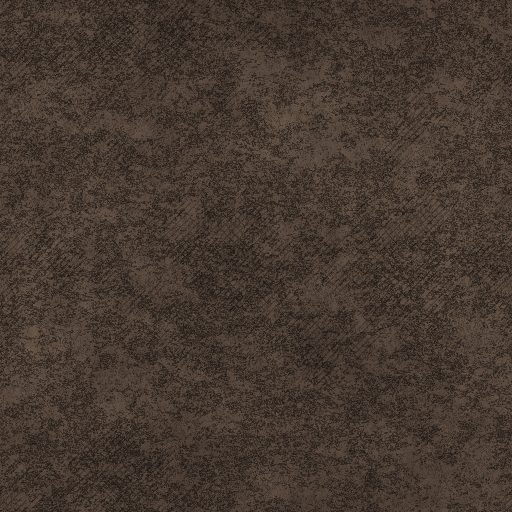
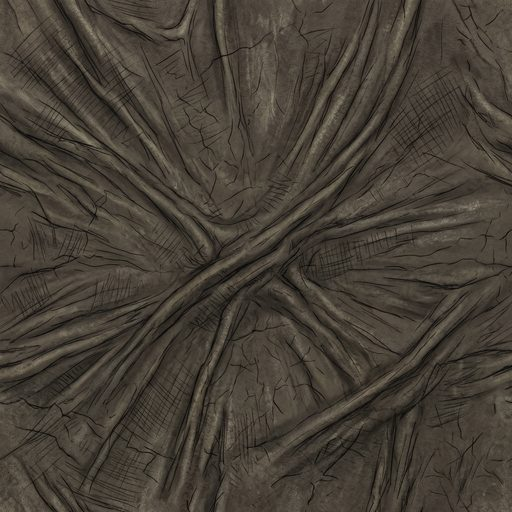
Gazer and maw skin from Gemini with the son's drawings as reference
Claude-Session: https://claude.ai/code/session_01Hp3PPN7BtYVUBya6ZtLD6R

diff --git a/tools/make_gemini_texture.py b/tools/make_gemini_texture.py
@@ -1,0 +1,20 @@
+# Gemini 가 그린 재질 한 장을 게임용 512 jpg 로 줄인다. 오른쪽 아래 별 표시를 지우고 밝기를 맞춘다.
+# 사용법: python3 tools/make_gemini_texture.py 원본.png public/art/이름.jpg [밝기=1.0] [크기=512]
+import sys
+from PIL import Image, ImageEnhance, ImageFilter
+
+src, dst = sys.argv[1], sys.argv[2]
+gain = float(sys.argv[3]) if len(sys.argv) > 3 else 1.0
+size = int(sys.argv[4]) if len(sys.argv) > 4 else 512
+
+im = Image.open(src).convert('RGB')
+w, h = im.size
+s = int(w * 0.1)
+x0, y0 = w - s - int(w * 0.02), h - s - int(h * 0.02)
+patch = im.crop((x0 - s, y0, x0, y0 + s))
+mask = Image.new('L', (s, s), 0)
+mask.paste(255, (s // 8, s // 8, s - s // 8, s - s // 8))
+im.paste(patch, (x0, y0), mask.filter(ImageFilter.GaussianBlur(s // 12)))
+im = ImageEnhance.Brightness(im).enhance(gain)
+im.resize((size, size), Image.LANCZOS).save(dst, quality=82, optimize=True)
+print('wrote', dst)
